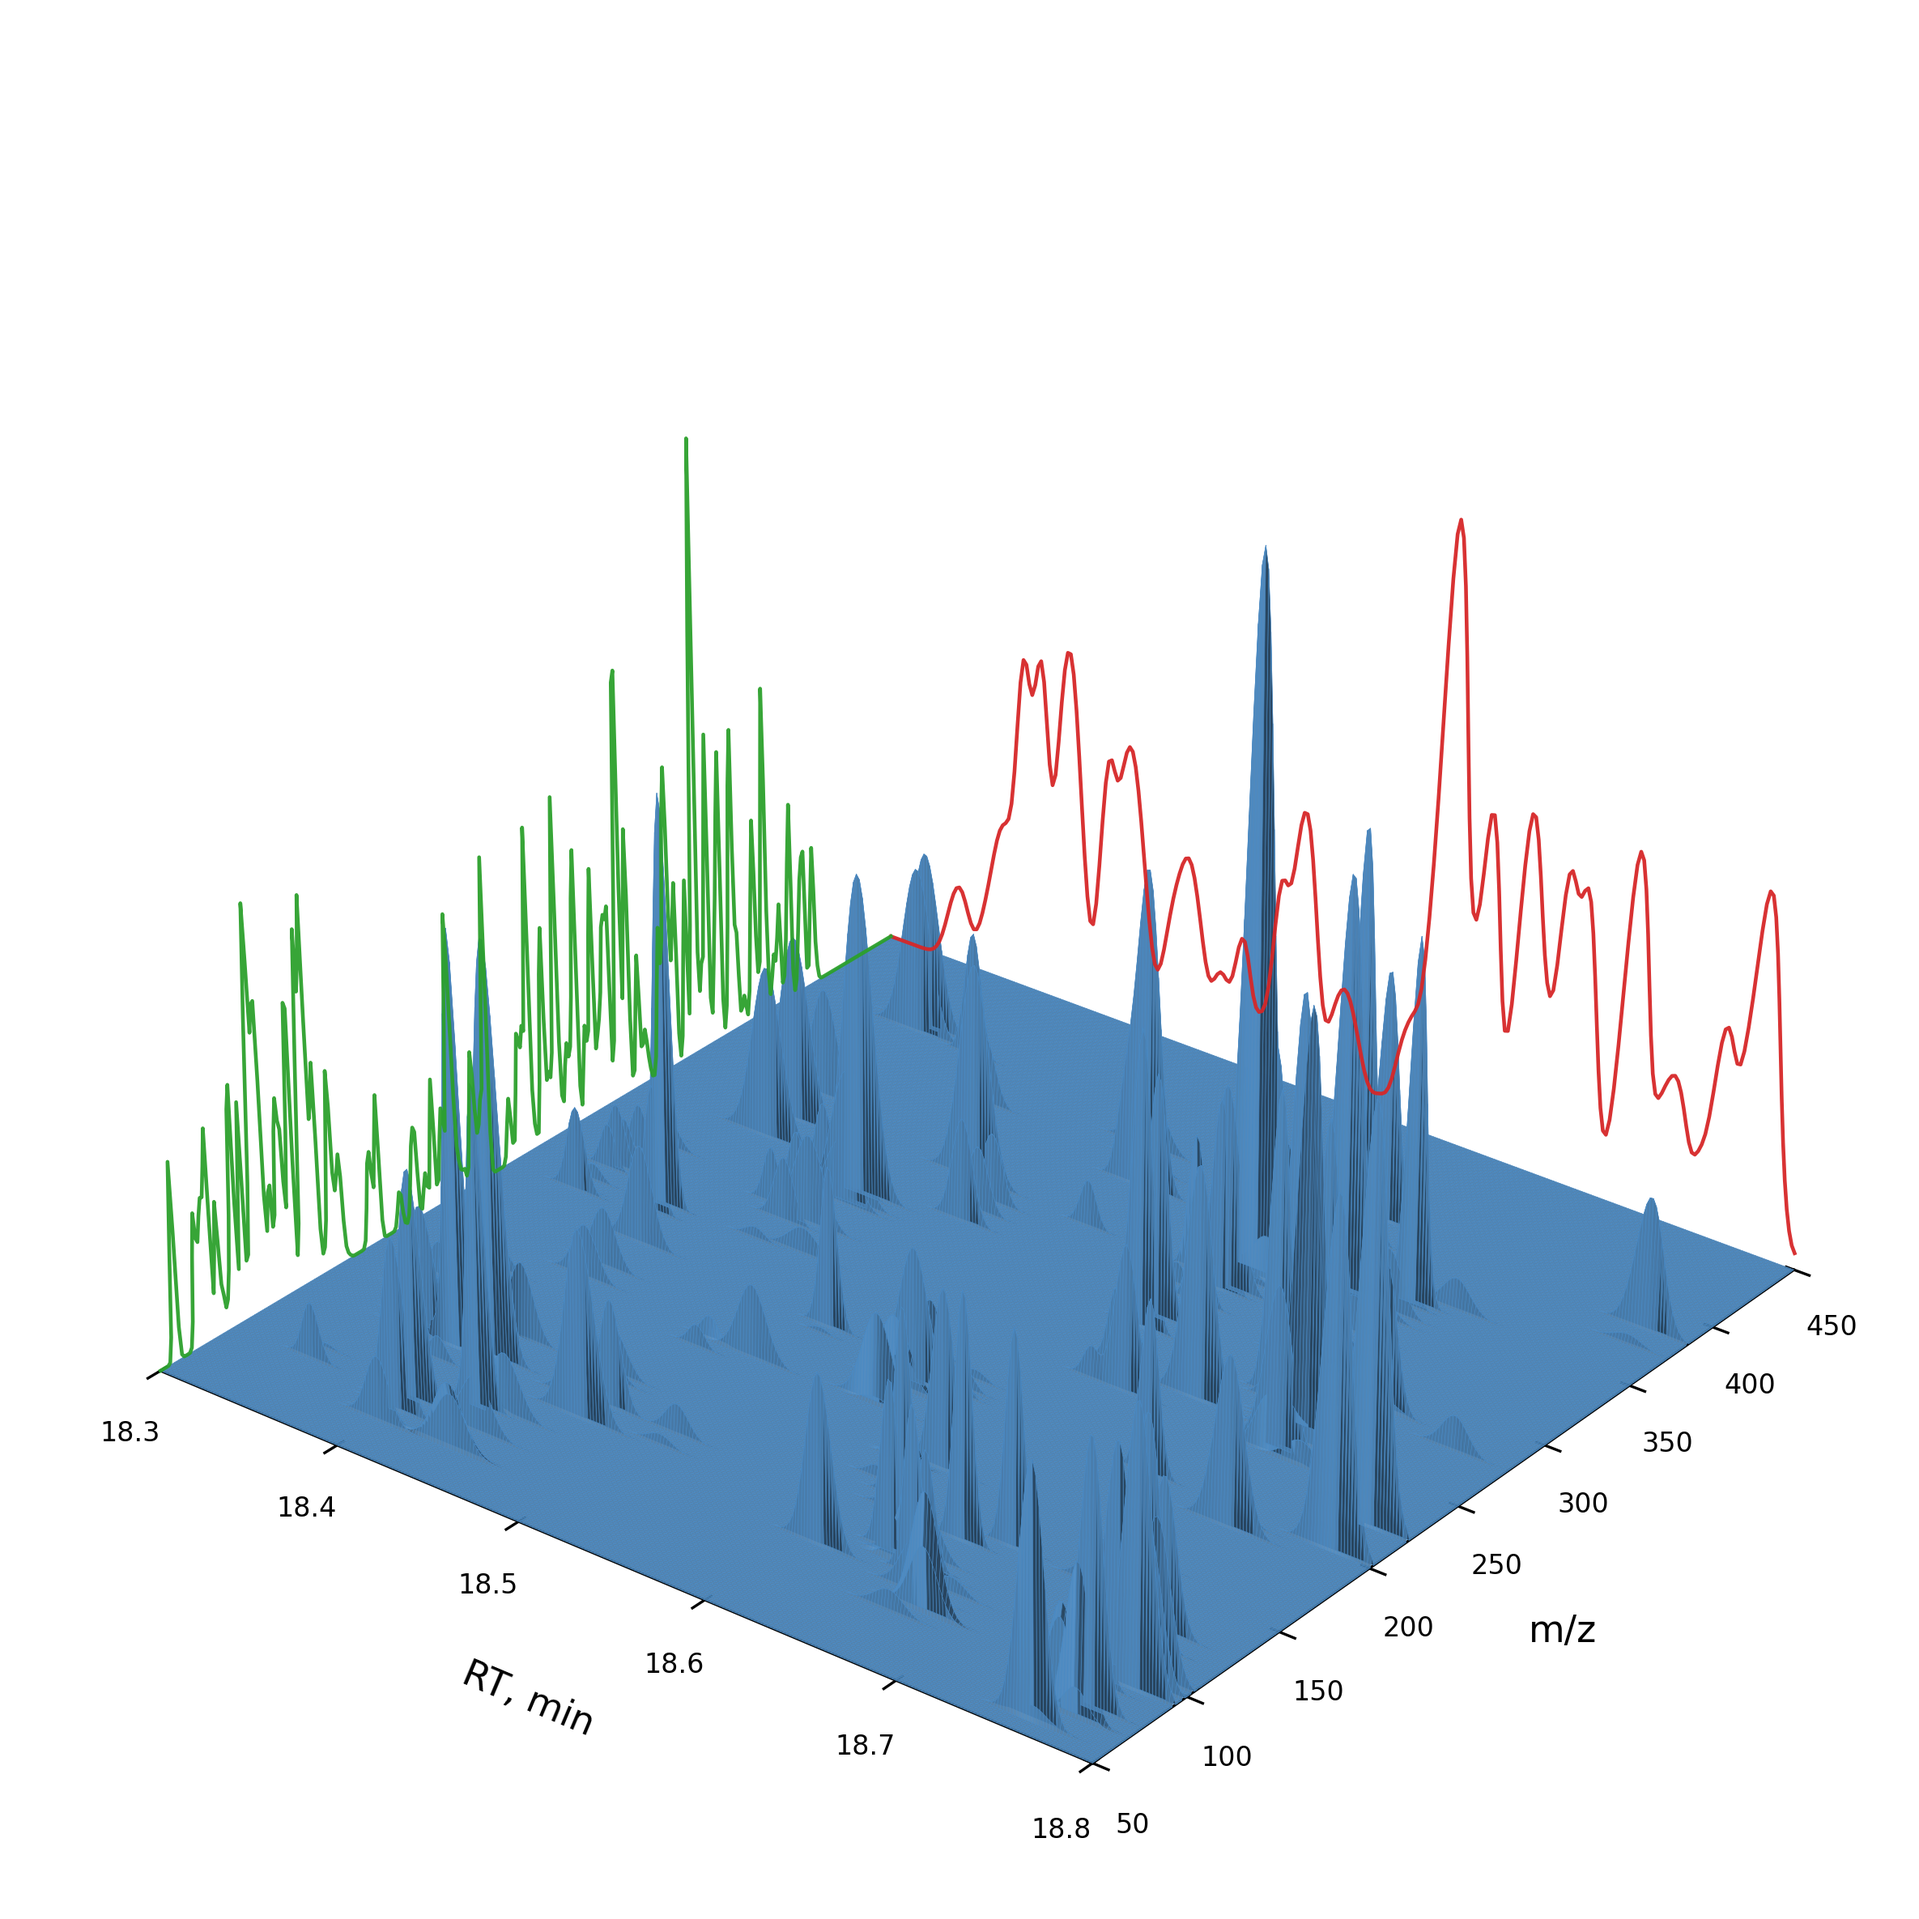
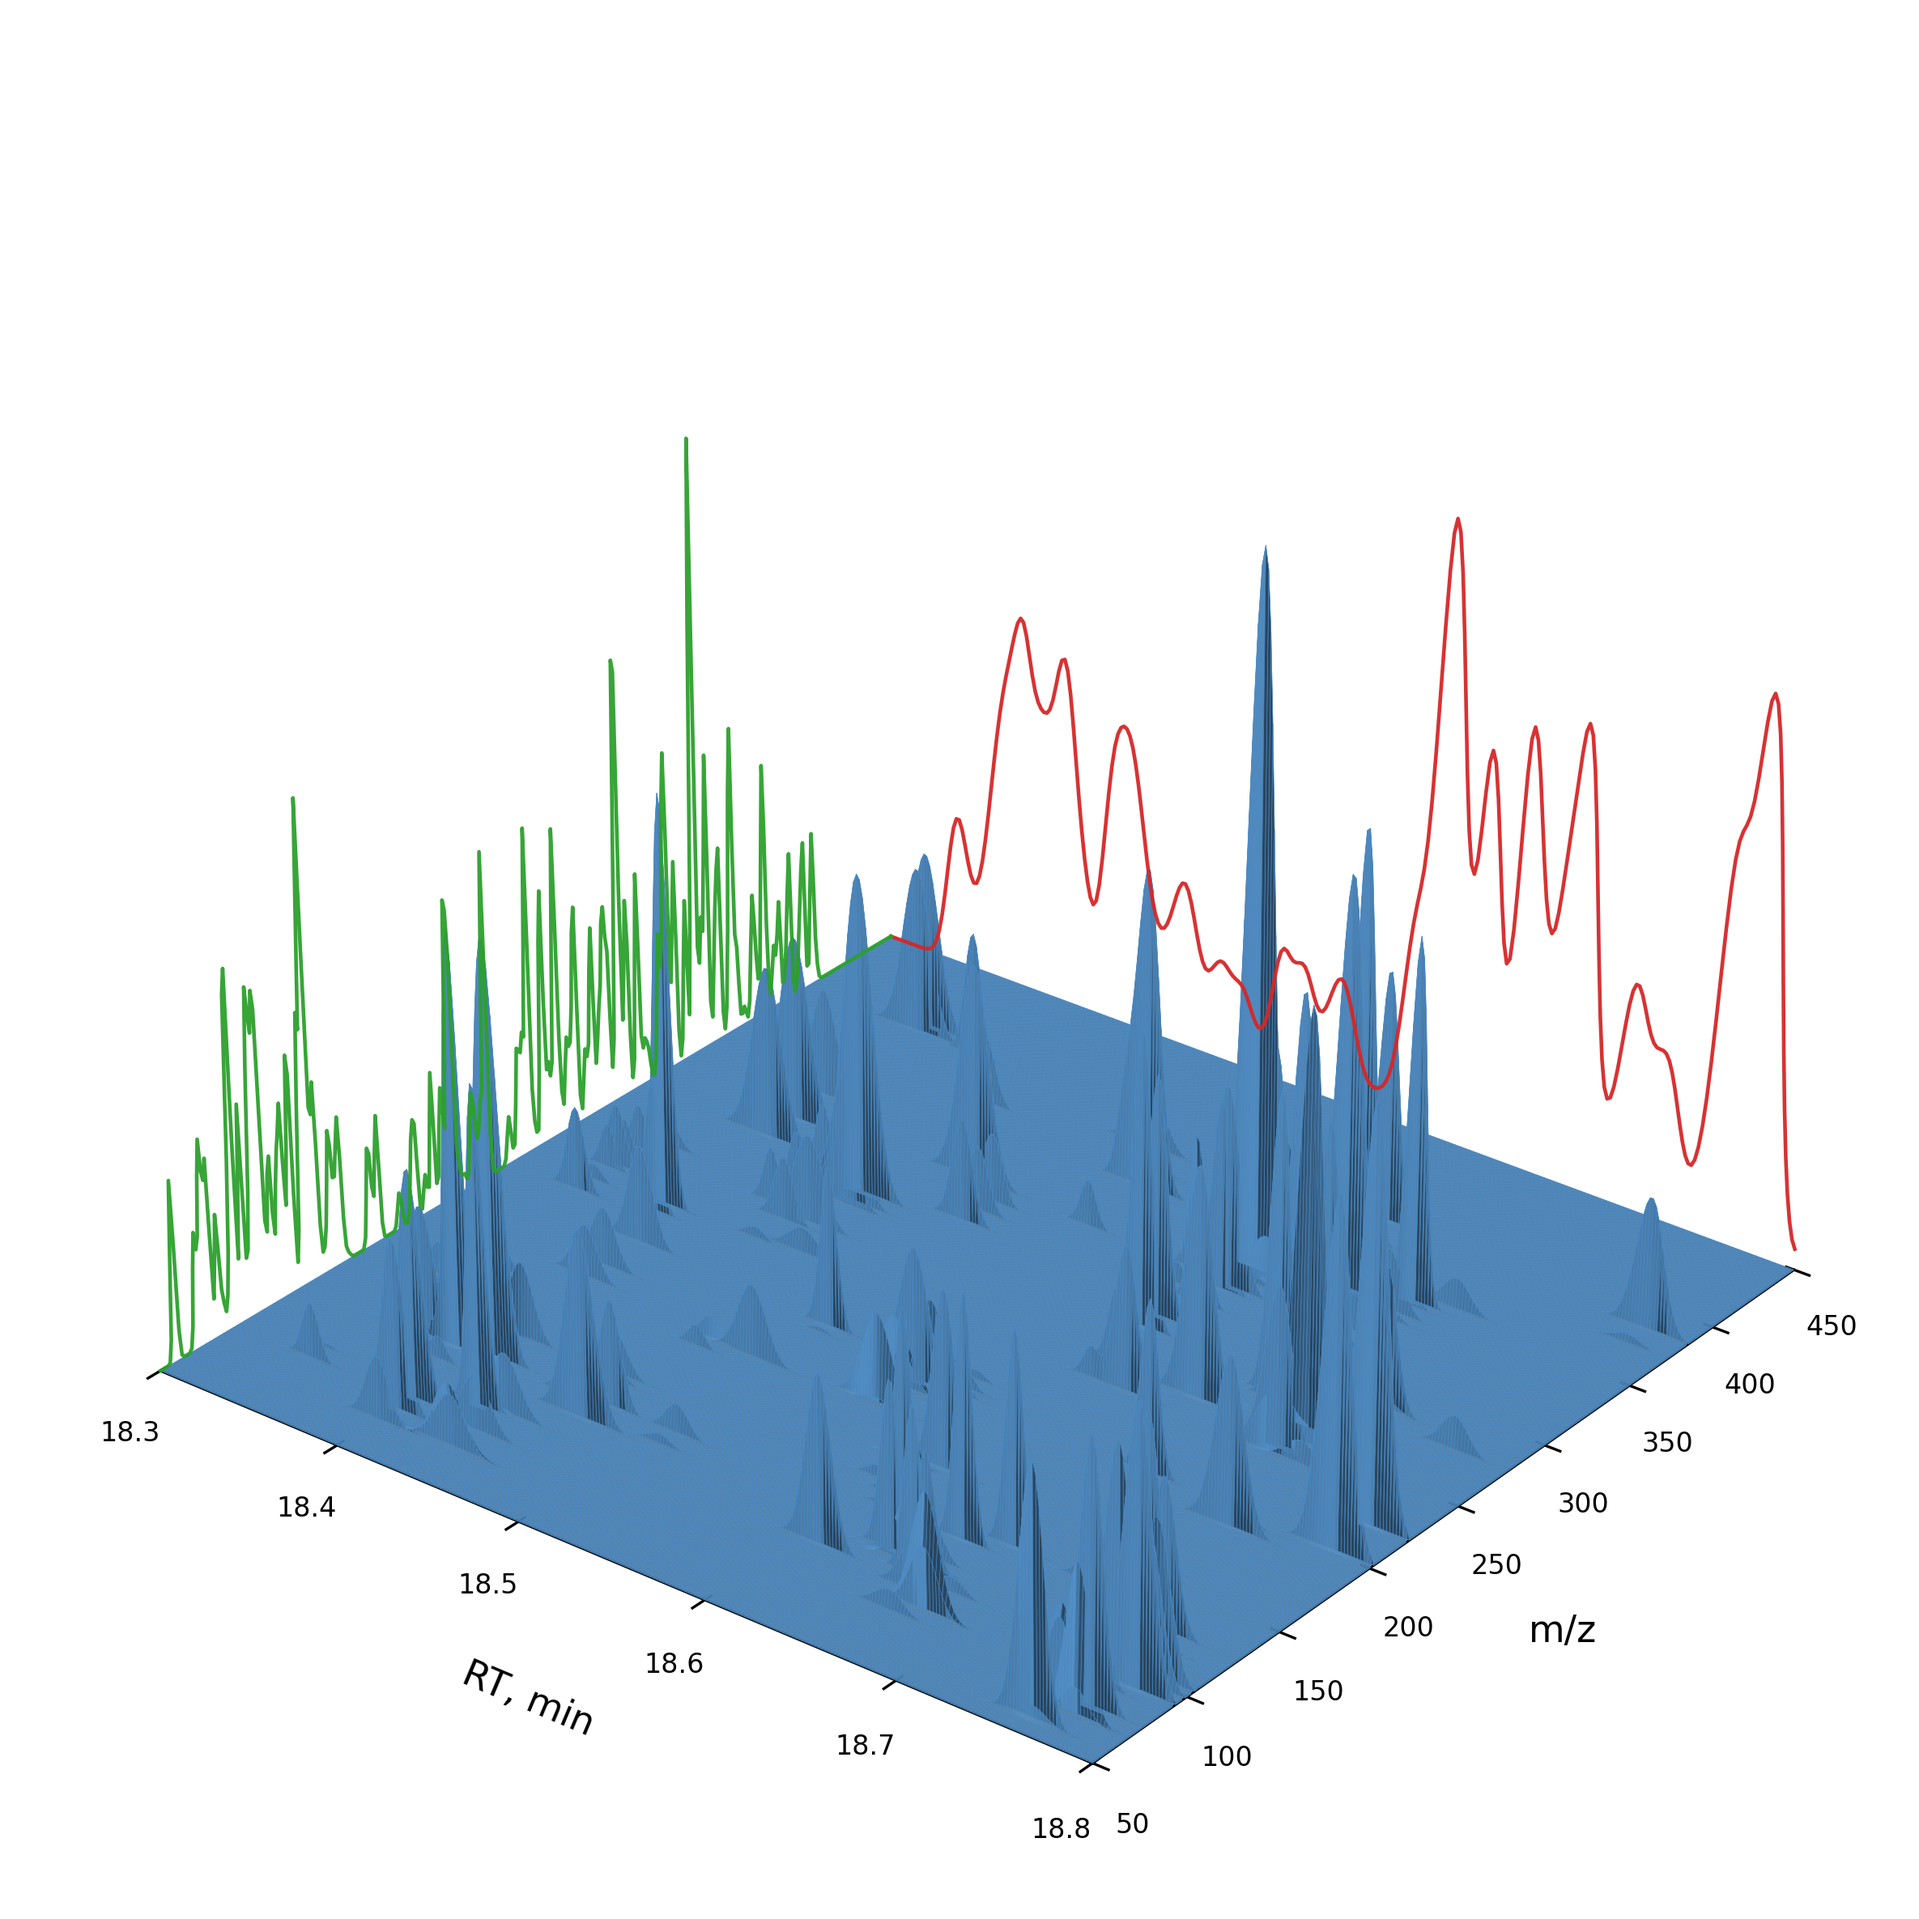
sum projection for gc-ms figure

diff --git a/figs/generate_gcms_3d.py b/figs/generate_gcms_3d.py
@@ -59,8 +59,8 @@ Z = np.clip(Z / Z.max(), 0, 1)
 
 # ── Wall projections ─────────────────────────────────────────────────────────
 from scipy.ndimage import gaussian_filter1d
-proj_rt = Z.max(axis=1)     # chromatogram (TIC-like) — left wall
-proj_mz = Z.max(axis=0)     # mass spectrum — back wall
+proj_rt = Z.sum(axis=1)     # TIC: sum of intensities across m/z at each RT bin
+proj_mz = Z.sum(axis=0)     # sum spectrum: sum of intensities across RT at each m/z bin
 
 # Light smoothing on RT projection so it looks like a clean chromatogram trace
 proj_rt = gaussian_filter1d(proj_rt, sigma=1.5)
